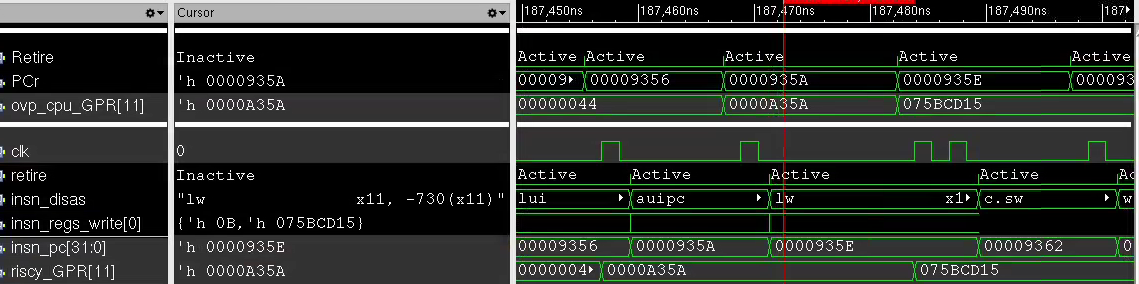
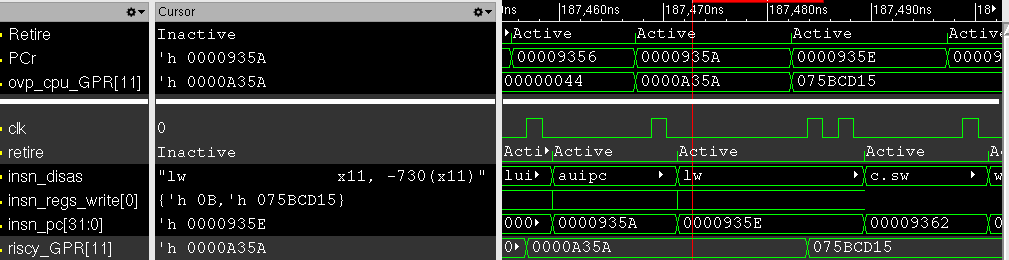
Updated image to be clearer, italicize insn_regs_write queue

diff --git a/verif/Common/CORE-V_Verification_Strategy/source/cv32_env.rst b/verif/Common/CORE-V_Verification_Strategy/source/cv32_env.rst
@@ -272,7 +272,7 @@ only 0 or 1 GPR registers change as a result of a retired instruction.
 
 `Illustration 7`_ demonstrates that for a *lw x11, -730(x11)* instruction the GPR value 
 is updated one clock cycle after the RTL retire signal. The load to *x11* is retired but 
-RTL value *riscy_GPR[11]* has not updated to *0x075BCD15* yet. However, the queue insn_regs_write 
+RTL value *riscy_GPR[11]* has not updated to *0x075BCD15* yet. However, the queue *insn_regs_write* 
 has been updated and is used for the compare. It is assumed that all other RTL GPR 
 registers are static for this instruction and can be compared directly.  
  
